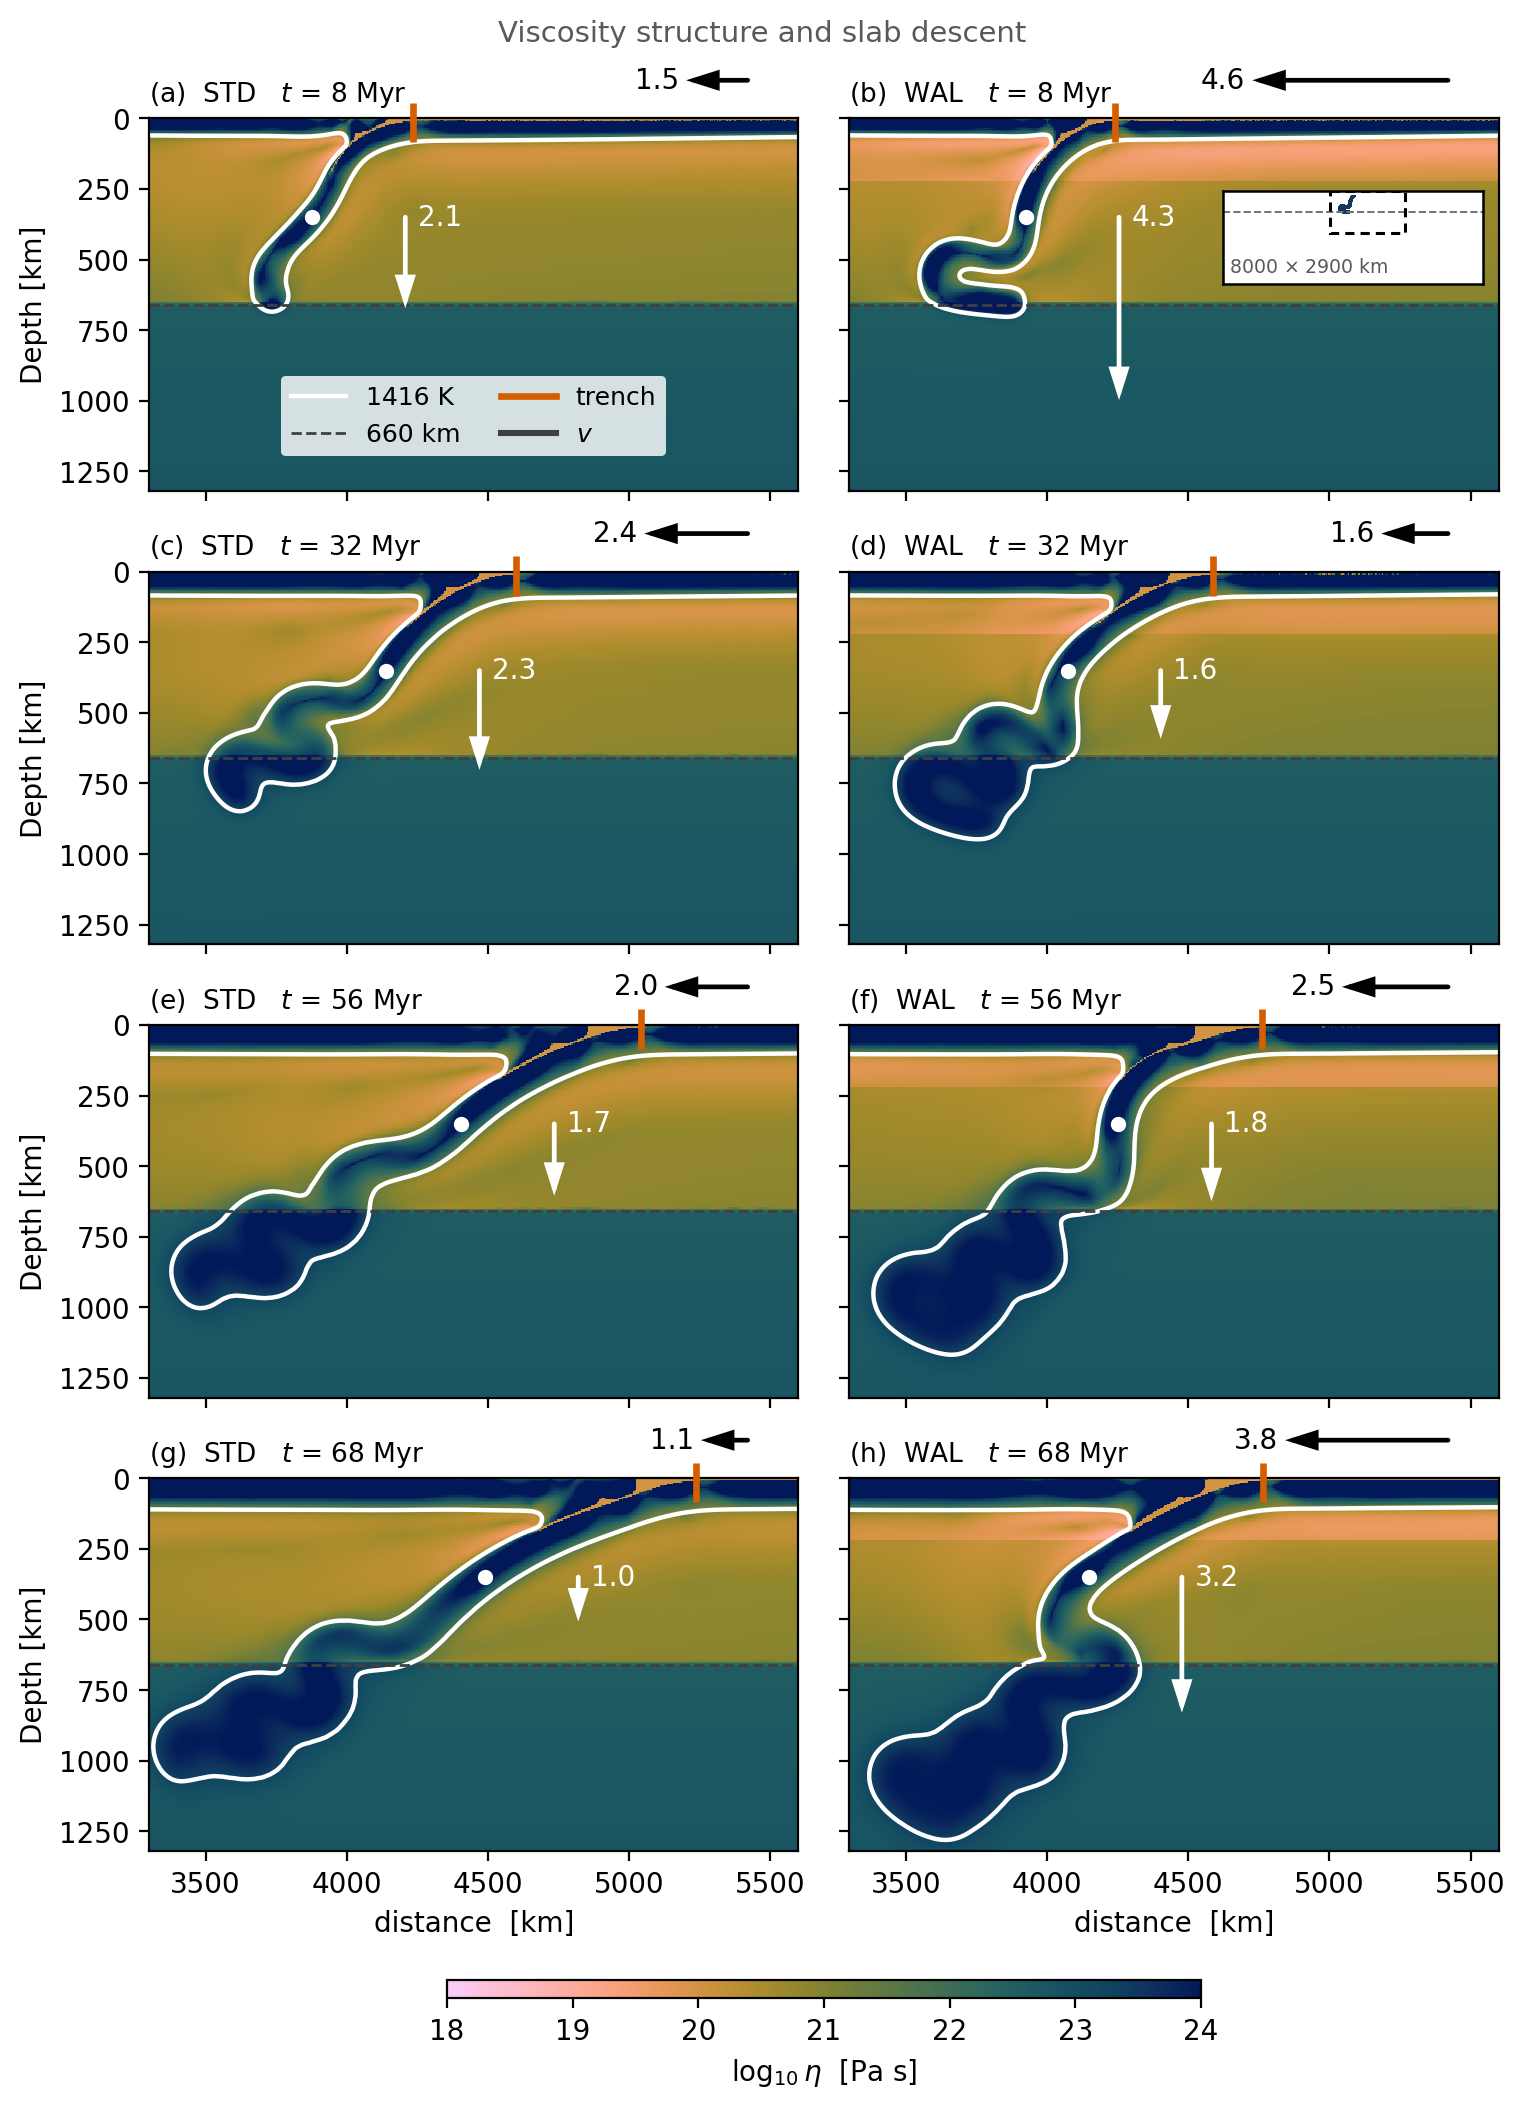
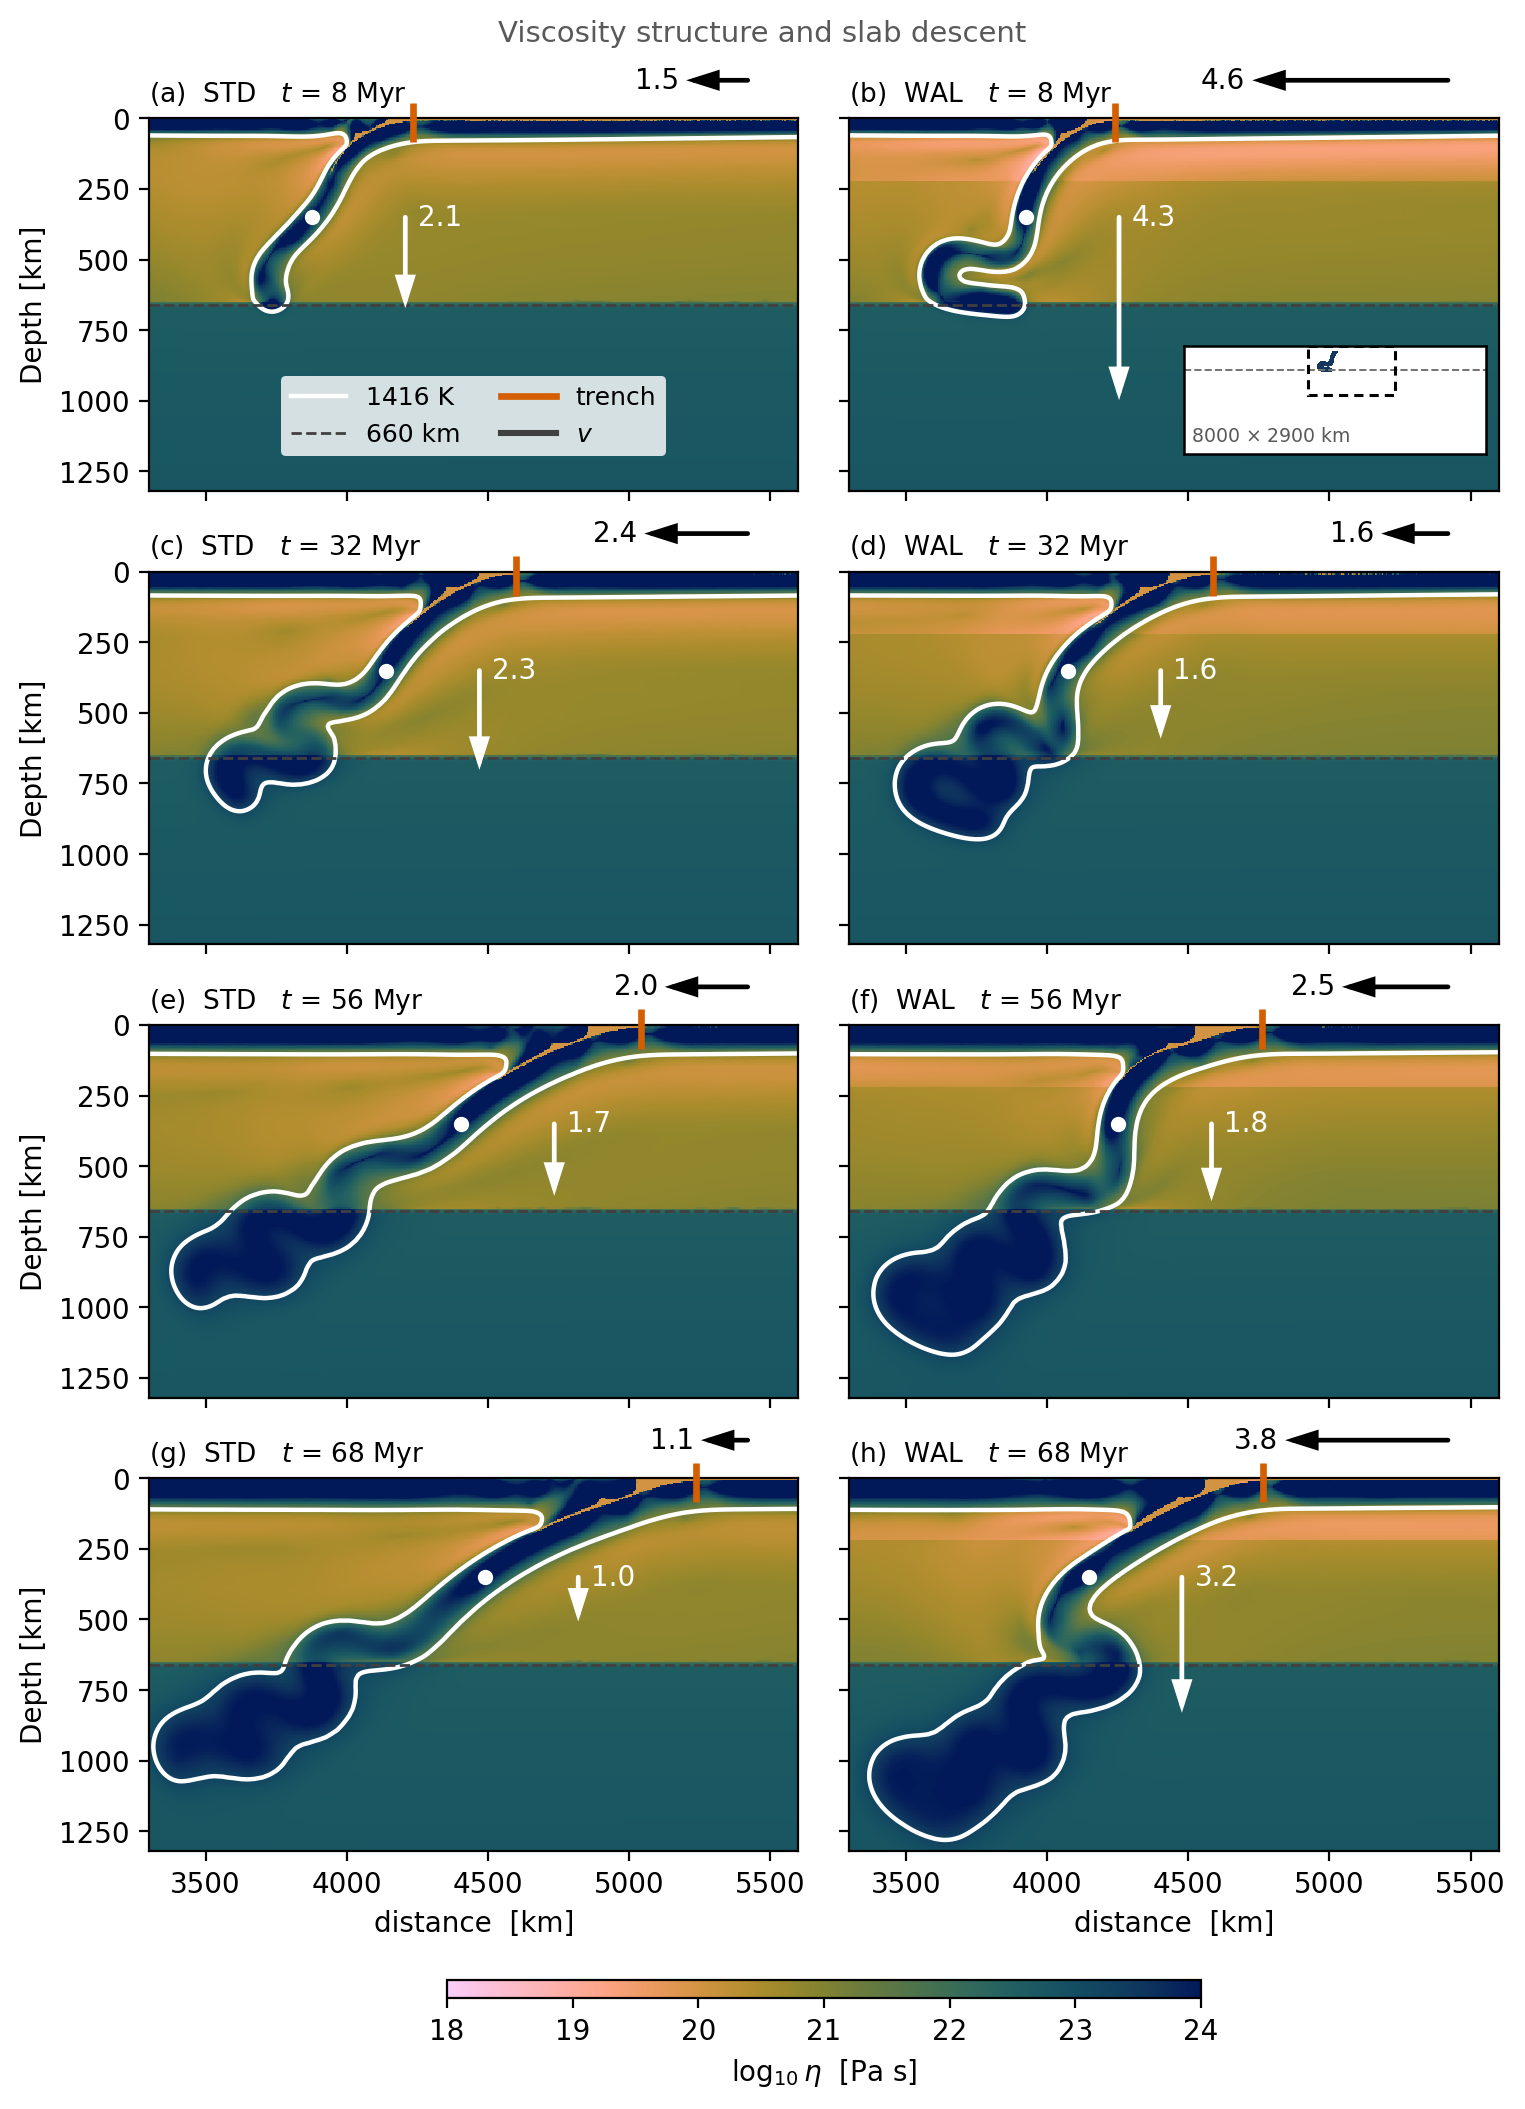
fig_model_evolution: the locator inset moves down and grows
It sat at the legend's height to mirror it, which put it between the
slab and the velocity arrow with no room. The lower half of (b) is
lower mantle with nothing in it at 8 Myr -- the same empty field the
legend uses in (a) -- so the inset moves there and goes from 0.40 to
0.465 of the panel width. The slab limb and the window outline are both
legible at that size; neither was before.

Changed region(s): [[0.7705, 0.0925, 0.9862, 0.2157]]

diff --git a/scripts/fig_model_evolution.py b/scripts/fig_model_evolution.py
@@ -210,11 +210,13 @@ def main():
     # the lithosphere, which would terminate at the cache edge and read as
     # a plate that stops in open mantle. The limb is isolated by taking the
     # 1416 K contour below 150 km only.
-    # PLACED AT THE LEGEND'S HEIGHT, on the other side (Dan, 2026-10-14).
-    # The bbox carries the domain's own 8000:2900 aspect, so the outline is
-    # the box rather than a box-shaped frame; at 8 Myr the field to the
-    # right of the slab is empty mantle, which is the room this uses.
-    ins = axes[0, 1].inset_axes([0.575, 0.555, 0.40, 0.25])
+    # LOWER RIGHT OF (b), AND LARGER (Dan, 2026-10-14). It first sat at the
+    # legend's height to mirror it, which cramped it against the slab and
+    # the velocity arrow. The lower half of (b) is lower mantle with nothing
+    # in it at 8 Myr -- the same empty field the legend uses in (a) -- so
+    # the inset can be half again as wide there. The bbox carries the
+    # domain's own 8000:2900 aspect, so the outline is the box itself.
+    ins = axes[0, 1].inset_axes([0.515, 0.10, 0.465, 0.29])
     ins.set_facecolor('white')
     Tw = d['WAL_temp'][0]
     Tw = Tw if Tw.shape[0] == len(zk) else Tw.T
